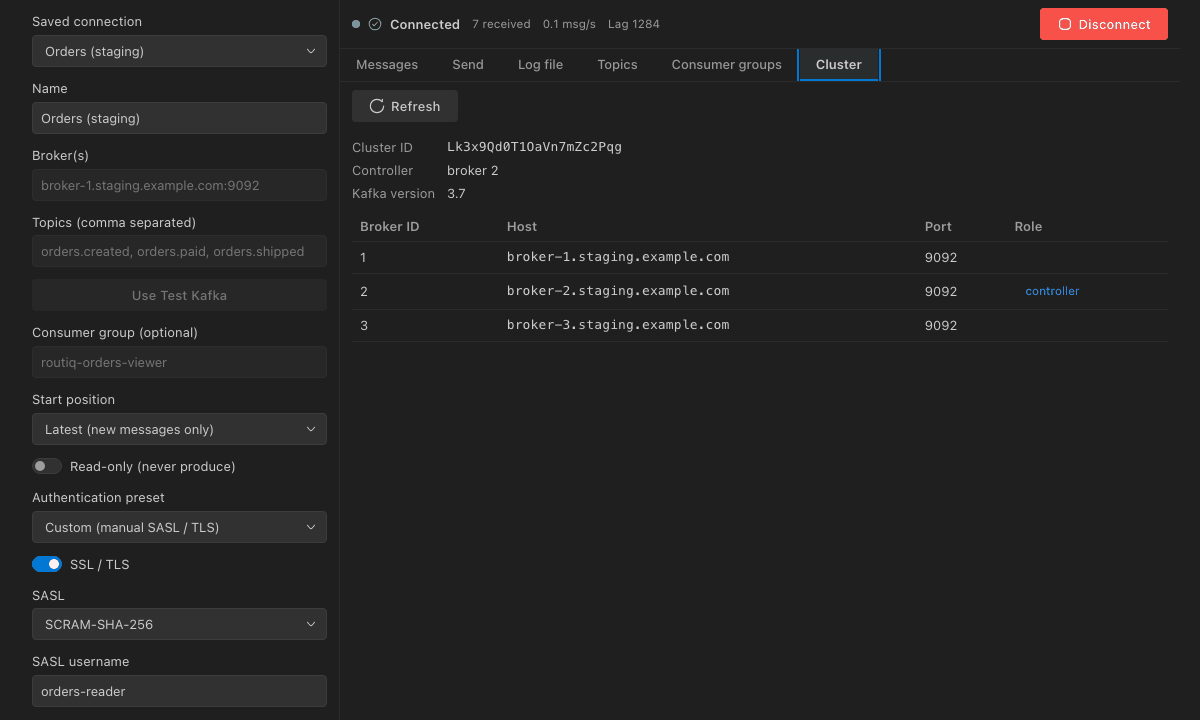
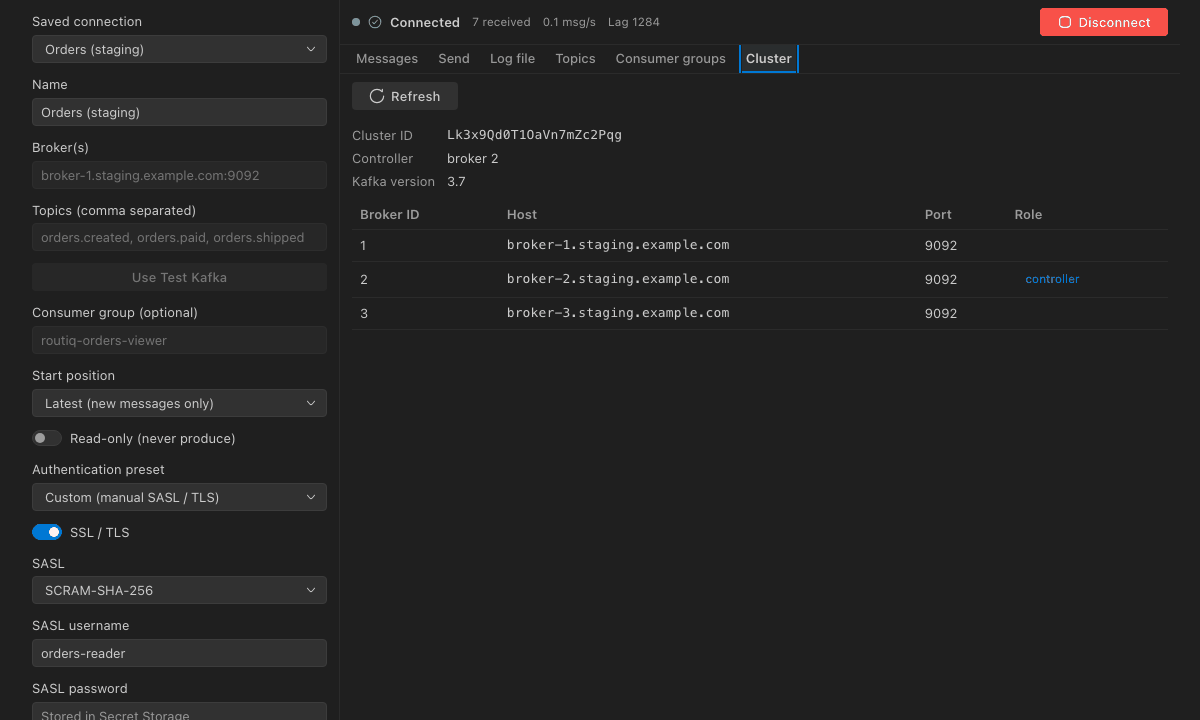
style TP-0: tidy kafka listener spacing and toolbar layout

diff --git a/src/webview/kafka/kafkaUx.css b/src/webview/kafka/kafkaUx.css
@@ -1,16 +1,16 @@
-.kafka-statusbar { display: flex; flex-wrap: wrap; align-items: center; gap: var(--rq-space-3); padding: var(--rq-space-2) var(--rq-space-3); border-bottom: 1px solid var(--border); }
-.kafka-status { display: inline-flex; align-items: center; gap: var(--rq-space-2); font-weight: 600; --status-color: var(--vscode-disabledForeground, var(--muted-foreground)); color: var(--status-color); }
+.kafka-statusbar { display: flex; flex-wrap: wrap; align-items: center; gap: var(--kafka-gap-3); padding: var(--kafka-gap-2) var(--kafka-pad-x); border-bottom: 1px solid var(--border); }
+.kafka-status { display: inline-flex; align-items: center; gap: var(--kafka-gap-2); font-weight: 600; --status-color: var(--vscode-disabledForeground, var(--muted-foreground)); color: var(--status-color); }
 .kafka-status[data-state='connected'] { --status-color: var(--vscode-testing-iconPassed, var(--vscode-charts-green, var(--success))); }
 .kafka-status[data-state='connecting'], .kafka-status[data-state='reconnecting'] { --status-color: var(--vscode-editorWarning-foreground, var(--vscode-charts-yellow, var(--warning))); }
 .kafka-status[data-state='error'] { --status-color: var(--vscode-errorForeground, var(--destructive)); }
 .kafka-status-dot { width: 8px; height: 8px; border-radius: 50%; background: var(--status-color); }
 .kafka-status[data-state='connecting'] .kafka-status-dot, .kafka-status[data-state='reconnecting'] .kafka-status-dot { animation: kafka-pulse 1s ease-in-out infinite; }
 .kafka-status-label { color: var(--foreground); }
-.kafka-status-metrics { display: inline-flex; gap: var(--rq-space-3); margin-right: auto; color: var(--muted-foreground); font-size: 0.9em; }
+.kafka-status-metrics { display: inline-flex; gap: var(--kafka-gap-3); margin-right: auto; color: var(--muted-foreground); font-size: 0.9em; }
 .kafka-unseen-badge { margin-left: var(--rq-space-1); }
-.kafka-options { display: flex; flex-wrap: wrap; align-items: center; gap: var(--rq-space-3); padding: var(--rq-space-2) var(--rq-space-3); border-top: 1px solid var(--border); border-bottom: 1px solid var(--border); background: var(--muted); }
+.kafka-options { display: flex; flex-wrap: wrap; align-items: center; gap: var(--kafka-gap-3); padding: var(--kafka-gap-2) var(--kafka-pad-x); border-top: 1px solid var(--border); border-bottom: 1px solid var(--border); background: var(--muted); }
 .kafka-sr-only { position: absolute; width: 1px; height: 1px; margin: -1px; padding: 0; overflow: hidden; clip: rect(0, 0, 0, 0); white-space: nowrap; border: 0; }
-.kafka-empty-state { display: flex; flex-direction: column; align-items: center; gap: var(--rq-space-2); padding: var(--rq-space-4); text-align: center; }
+.kafka-empty-state { display: flex; flex-direction: column; align-items: center; justify-content: center; gap: var(--kafka-gap-2); padding: calc(var(--kafka-gap-3) * 3) var(--kafka-pad-x); text-align: center; }
 .kafka-empty-title { margin: 0; font-weight: 600; }
 .kafka-flows { gap: var(--rq-space-2); }
 .kafka-flow-steps { position: relative; display: flex; flex-direction: column; margin-left: var(--rq-space-3); border-left: 2px solid var(--vscode-editorIndentGuide-activeBackground1, var(--border)); }

diff --git a/src/webview/kafka/kafka.css b/src/webview/kafka/kafka.css
@@ -1,4 +1,4 @@
-.kafka-view { display: grid; grid-template-columns: minmax(260px, 320px) 1fr; height: 100%; min-height: 0; }
+.kafka-view { --kafka-gap-1: 4px; --kafka-gap-2: 8px; --kafka-gap-3: 12px; --kafka-pad-x: var(--kafka-gap-3); --rq-control-height: 28px; display: grid; grid-template-columns: minmax(260px, 320px) 1fr; height: 100%; min-height: 0; }
 .kafka-sidebar { padding: var(--rq-space-3); overflow-y: auto; border-right: 1px solid var(--border); }
 .kafka-main { display: flex; flex-direction: column; min-width: 0; min-height: 0; }
 .kafka-main .ui-tabs-content { flex: 1 1 auto; min-height: 0; overflow: hidden; }
@@ -13,11 +13,18 @@
 .kafka-error-box { padding: var(--rq-space-2); border: 1px solid var(--destructive); border-radius: var(--radius); }
 .kafka-success { color: var(--success); margin: 0; }
 .kafka-messages { display: flex; flex-direction: column; height: 100%; min-height: 0; }
-.kafka-toolbar, .kafka-stats { display: flex; flex-wrap: wrap; align-items: center; gap: var(--rq-space-2); padding: var(--rq-space-2) var(--rq-space-3); }
+.kafka-toolbar, .kafka-stats { display: flex; flex-wrap: wrap; align-items: center; gap: var(--kafka-gap-2); padding: var(--kafka-gap-2) var(--kafka-pad-x); }
+.kafka-stats { padding-block: var(--kafka-gap-2); min-height: 22px; }
+.kafka-stats .ui-badge { min-height: 22px; box-sizing: border-box; display: inline-flex; align-items: center; }
+.kafka-stats .ui-badge-info { background: color-mix(in srgb, var(--info) 12%, transparent); border-color: var(--border); }
 .kafka-toolbar .ui-input { flex: 1 1 220px; min-width: 160px; }
+.kafka-filter .kafka-toolbar { padding: 0; }
+.kafka-main .ui-tabs-list { gap: var(--kafka-gap-3); padding: 0 var(--kafka-pad-x); }
+.kafka-main .ui-tabs-trigger { padding-inline: var(--kafka-gap-1); border-left: 0; }
+.kafka-main .ui-tabs-trigger[data-state='active'] { border-bottom-color: var(--vscode-focusBorder, var(--ring)); }
 .kafka-topic-chips { display: flex; flex-wrap: wrap; gap: var(--rq-space-1); }
 .kafka-scroll { flex: 1 1 auto; min-height: 0; overflow-y: auto; padding: 0 var(--rq-space-3) var(--rq-space-3); }
-.kafka-empty { padding: var(--rq-space-4); color: var(--muted-foreground); }
+.kafka-empty { padding: var(--kafka-gap-3); color: var(--muted-foreground); }
 .kafka-flows { display: flex; flex-direction: column; gap: var(--rq-space-3); }
 .kafka-flow { border: 1px solid var(--border); border-radius: var(--radius); background: var(--card); overflow: hidden; }
 .kafka-flow-header, .kafka-message-header { display: flex; align-items: center; gap: var(--rq-space-2); padding: var(--rq-space-2); }

diff --git a/src/webview/kafka/messages.css b/src/webview/kafka/messages.css
@@ -1,11 +1,12 @@
 .kafka-message[style*='border-left-color'] { border-left-width: 4px; border-left-style: solid; }
 .kafka-rule-badge { margin-left: var(--rq-space-1); }
-.kafka-filter { display: flex; flex-direction: column; gap: var(--rq-space-2); }
+.kafka-filter { display: flex; flex-direction: column; gap: var(--kafka-gap-2); padding: 0 var(--kafka-pad-x) var(--kafka-gap-2); }
+.kafka-filter-error { margin: 0; }
 .kafka-filter-advanced { display: grid; grid-template-columns: repeat(auto-fit, minmax(160px, 1fr)); gap: var(--rq-space-2); }
-.kafka-saved-filters { display: flex; flex-wrap: wrap; gap: var(--rq-space-1); align-items: center; }
+.kafka-saved-filters { display: flex; flex-wrap: wrap; gap: var(--kafka-gap-2); align-items: center; }
 .kafka-saved-filter { display: inline-flex; align-items: center; gap: 2px; }
-.kafka-view-bar { display: flex; align-items: center; justify-content: space-between; gap: var(--rq-space-2); }
-.kafka-view-tabs { display: flex; flex-wrap: wrap; gap: var(--rq-space-1); align-items: center; }
+.kafka-view-bar { display: flex; flex-wrap: wrap; align-items: center; justify-content: space-between; gap: var(--kafka-gap-2); padding: var(--kafka-gap-2) var(--kafka-pad-x); min-width: 0; }
+.kafka-view-tabs { display: flex; flex: 1 1 auto; min-width: 0; flex-wrap: wrap; gap: var(--kafka-gap-2); align-items: center; }
 .kafka-view-tab { display: inline-flex; align-items: center; gap: 2px; }
 .kafka-value-header { display: flex; align-items: center; justify-content: space-between; gap: var(--rq-space-2); }
 .kafka-value-modes, .kafka-value-format { display: flex; gap: var(--rq-space-1); align-items: center; }

diff --git a/src/webview/kafka/FilterBar.tsx b/src/webview/kafka/FilterBar.tsx
@@ -99,6 +99,10 @@ function SavedFilters({ filter, savedFilters, onApply, onChange }: SavedProps) {
     setRenamingId(null);
   };
 
+  if (savedFilters.length === 0 && !renamingId && !isFilterActive(filter)) {
+    return null;
+  }
+
   return (
     <div className="kafka-saved-filters">
       {savedFilters.map((saved) => (

diff --git a/CHANGELOG.md b/CHANGELOG.md
@@ -1,5 +1,9 @@
 # Changelog
 
+## 0.6.2
+
+- Kafka UI: consistent spacing scale, aligned toolbar rows, tab and status bar polish, saved-filter controls shown only when relevant.
+
 ## 0.6.1
 
 - Kafka: connecting now saves the connection, so it appears in the sidebar.
